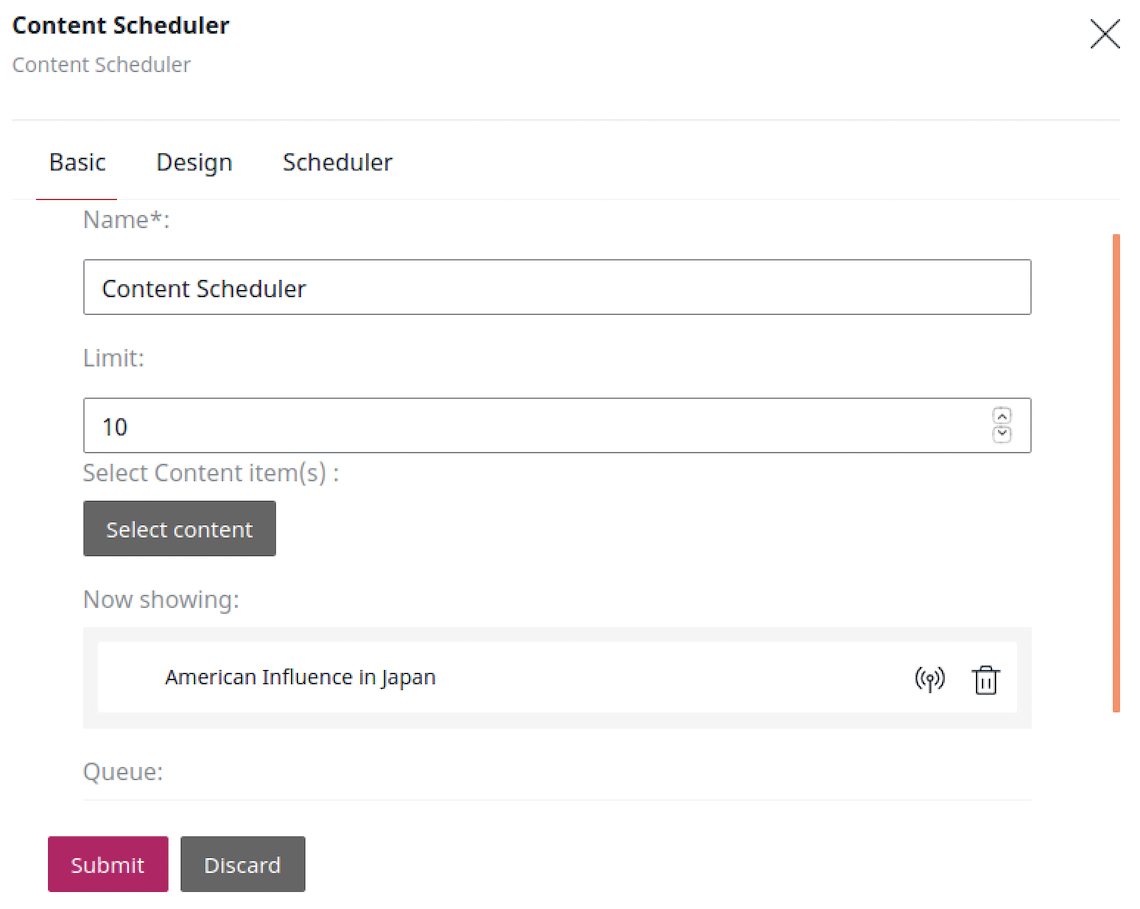
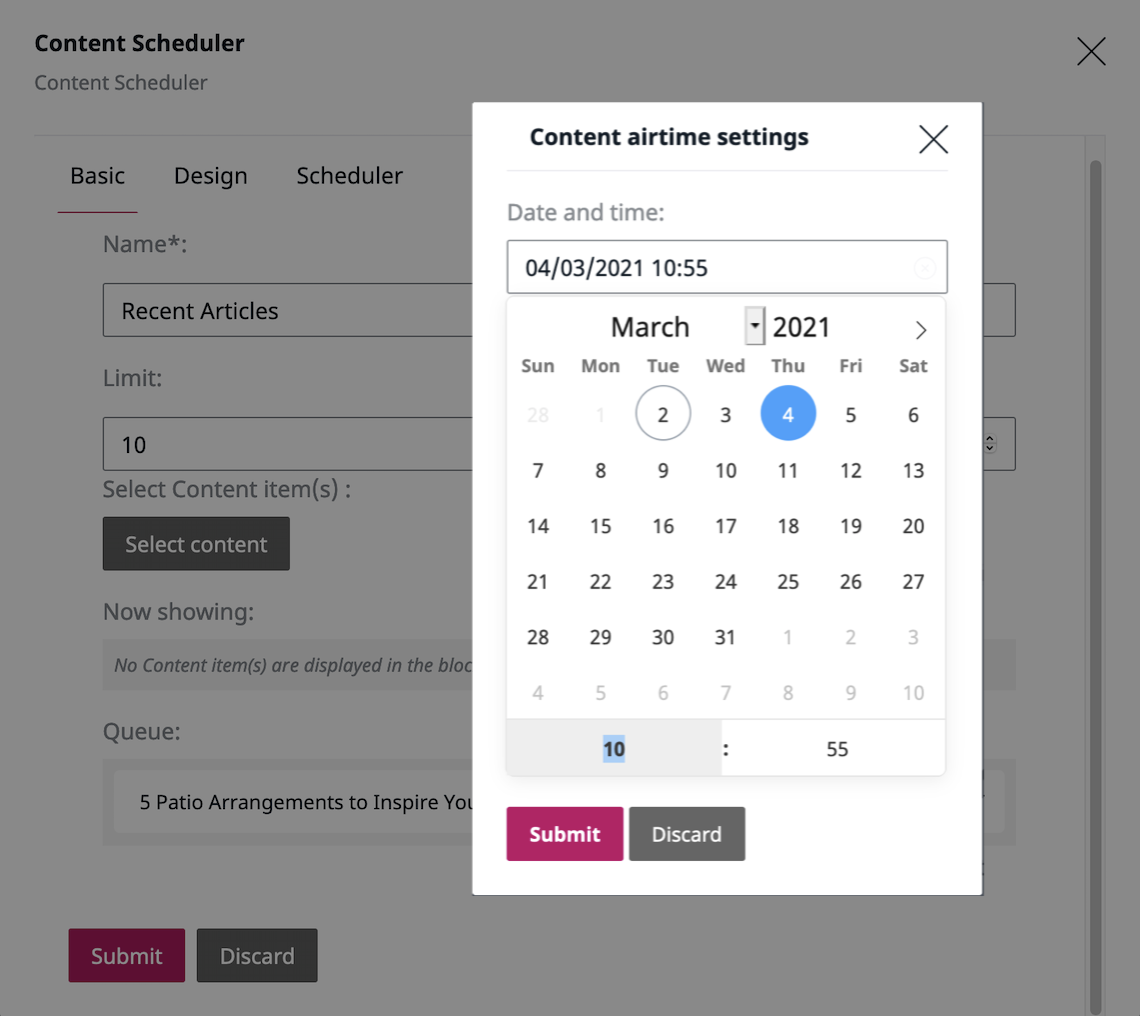
Schedule content hide

diff --git a/docs/publishing/advanced_publishing_options.md b/docs/publishing/advanced_publishing_options.md
@@ -1,14 +1,14 @@
 # Advanced publishing options
 
-There are three ways in which you can schedule content to be published in the future:
+There are three ways in which you can schedule content to be revealed or hidden in the future:
 
-- [[% include 'snippets/experience_badge.md' %]] [[% include 'snippets/commerce_badge.md' %]] [Schedule tab](#schedule-tab) in any Page block's configuration
+- [[% include 'snippets/experience_badge.md' %]] [[% include 'snippets/commerce_badge.md' %]] [Scheduler tab](#schedule-tab) in any Page block's configuration
 - [[% include 'snippets/experience_badge.md' %]] [[% include 'snippets/commerce_badge.md' %]] [Content Scheduler block](#content-scheduler-block) on a Page
 - [Publish later option](#date-based-publishing) when editing content
 
-## Schedule tab [[% include 'snippets/experience_badge.md' %]] [[% include 'snippets/commerce_badge.md' %]]
+## Scheduler tab [[% include 'snippets/experience_badge.md' %]] [[% include 'snippets/commerce_badge.md' %]]
 
-The Schedule tab is available in the configuration of all Page blocks.
+The Scheduler tab is available in the configuration of all Page blocks.
 You can use it to set the date and time when the block becomes visible and when it disappears from a Page.
 If you configure the reveal and/or hide dates for a Page block, you can then see the scheduled blocks (except for the Content Scheduler) in the calendar.
 This way you can see what content will be available in the future.
@@ -39,10 +39,21 @@ If you had planned a future publication date and enter the edit mode of the same
 you also have a new option in the menu: **Discard publish later**.
 Use it to remove the previously selected publication date.
 
-![Discard Publish Date button in the menu](img/discard_publish_date.png "Discard publish later button in the menu")
+![Discard publish later button in the menu](img/discard_publish_date.png "Discard publish later button in the menu")
 
-You can always [reschedule or cancel planned publications](#rescheduling-or-cancelling-publications).
+You can also [reschedule or cancel planned publications](#rescheduling-or-cancelling-publications).
 To easily browse all the future events, use the [Calendar widget](#calendar-widget).
+
+## Date-based hiding
+
+When your Content item is published, you can schedule a date and time and the content will be hidden at that time.
+To do this, go to the **Content** tab and **Content structure** or **Media**. 
+Then, navigate to the Content item that you want to hide and click **Hide** in the menu.
+
+![Hide Content item modal window](../../site_organization/img/schedule_hiding.png "Hide Content item modal window")
+
+Once a Content item is hidden, it is unavailable on the front page and inactive in the Content Tree.
+This change affects the Content item in all of its [Locations](../../site_organization/organizing_the_content.md#content-locations).
 
 ## Timeline [[% include 'snippets/experience_badge.md' %]] [[% include 'snippets/commerce_badge.md' %]]
 
